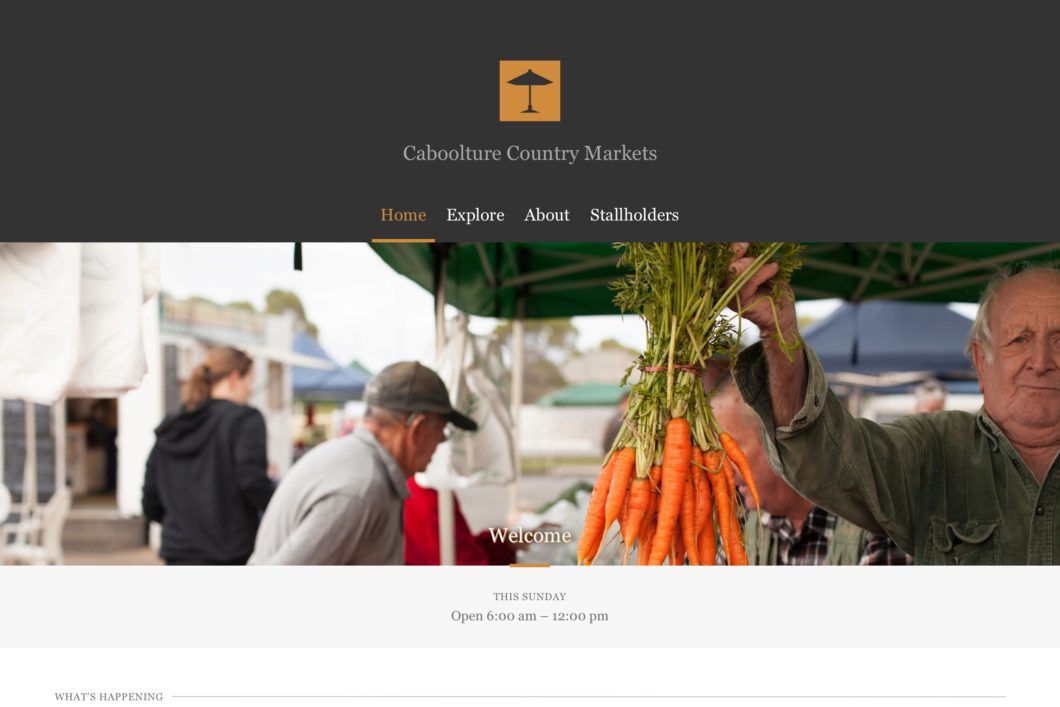
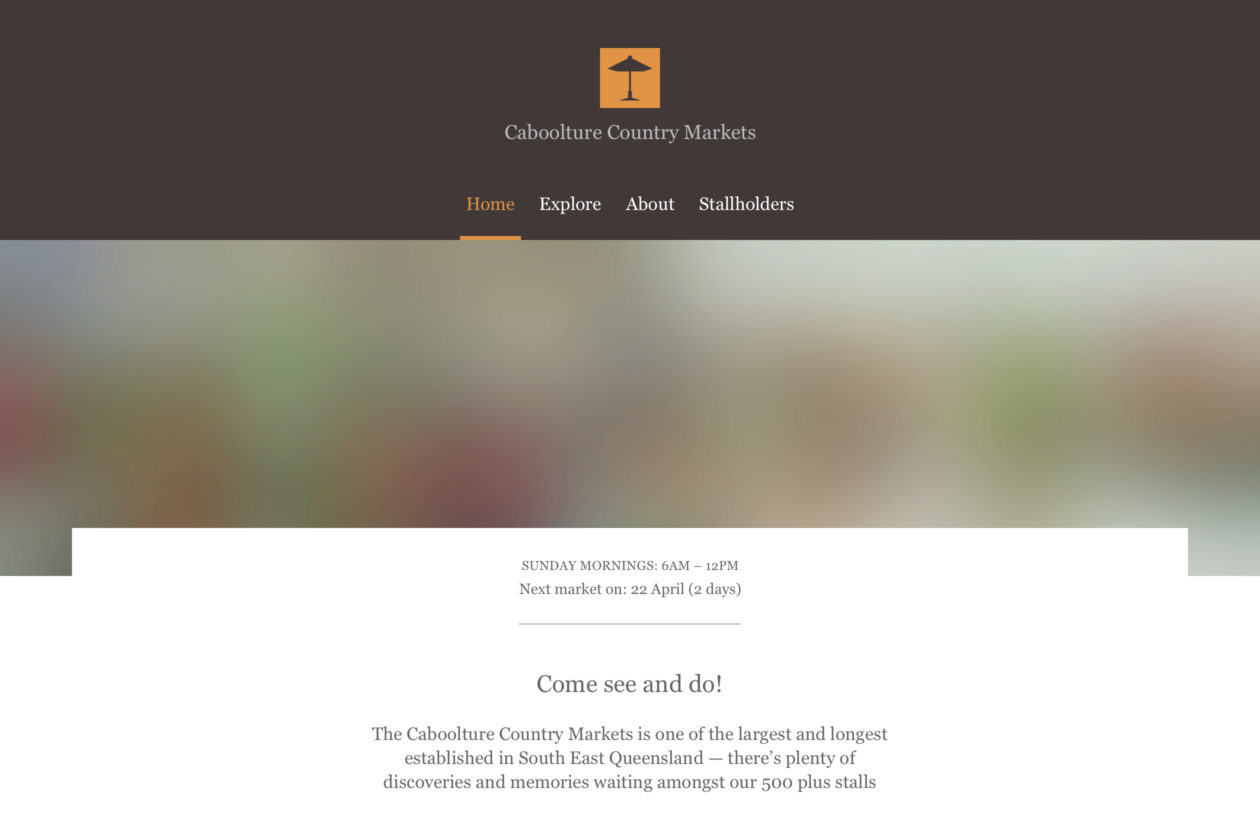
Update some project assets

diff --git a/src/pages/project/caboolture-country-markets.html b/src/pages/project/caboolture-country-markets.html
@@ -17,10 +17,14 @@ title: Caboolture Country Markets
 
 
 <section class="row--section">
-    <div class="media">
-        <img src="/assets/images/projects/caboolture-country-markets__home.png" alt="Home page">
+    <div class="media media--border">
+        <video autoplay loop poster="/assets/images/projects/caboolture-country-markets__home.jpg">
+            <!-- <source src="/assets/media/projects/caboolture-country-markets__home.webm" type="video/webm; codecs=vp9"> -->
+            <!-- <source src="/assets/media/projects/caboolture-country-markets__home.mp4" type="video/mp4; codecs=avc1.4D4040"> -->
+        </video>
     </div>
     <div class="media media--border">
-        <img src="/assets/images/projects/caboolture-country-markets__logo--vector.png" alt="Basic use of geometrics to form the logo for Caboolture Country Markets">
+        <video autoplay loop poster="/assets/images/projects/caboolture-country-markets__find-a-stall.jpg">
+        </video>
     </div>
 </section>
